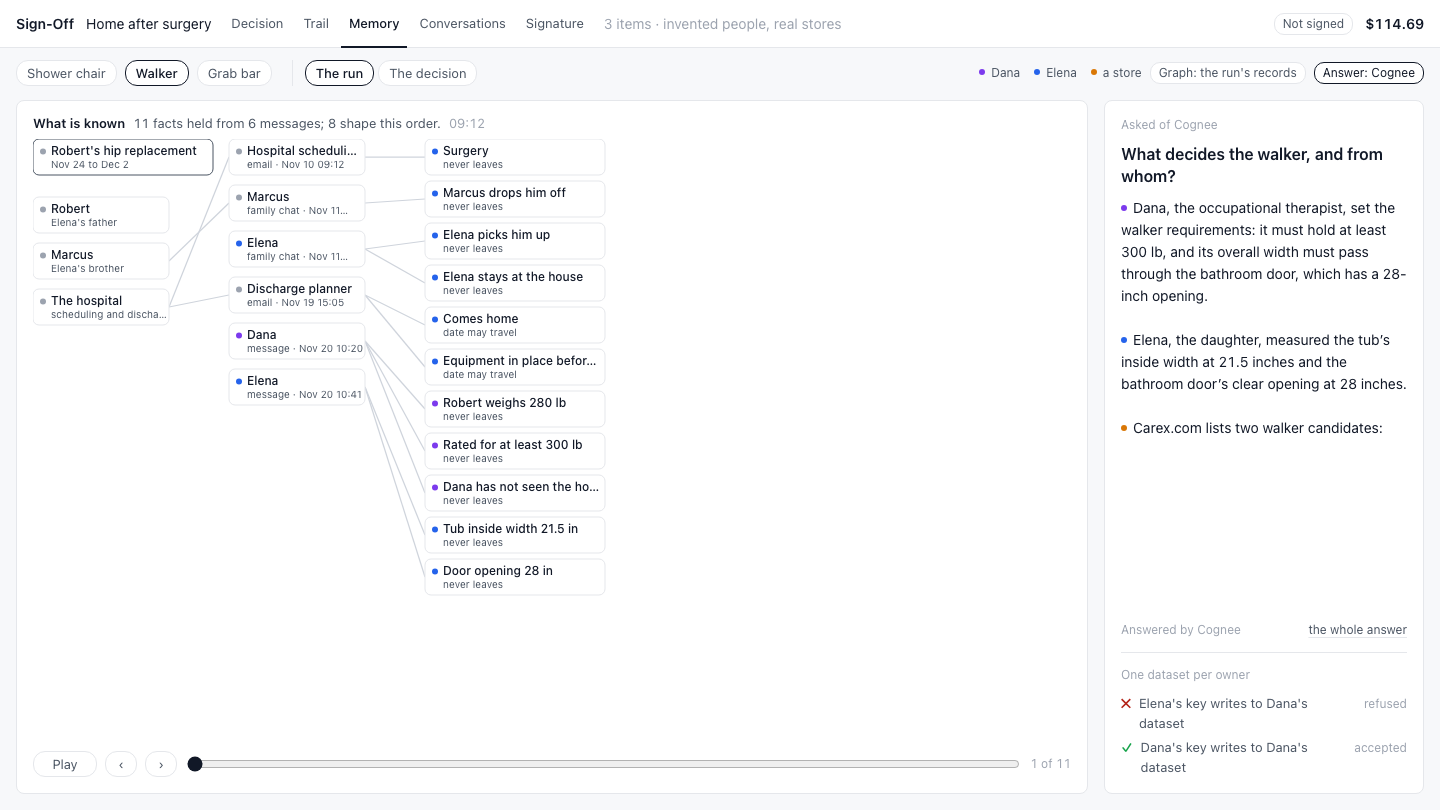
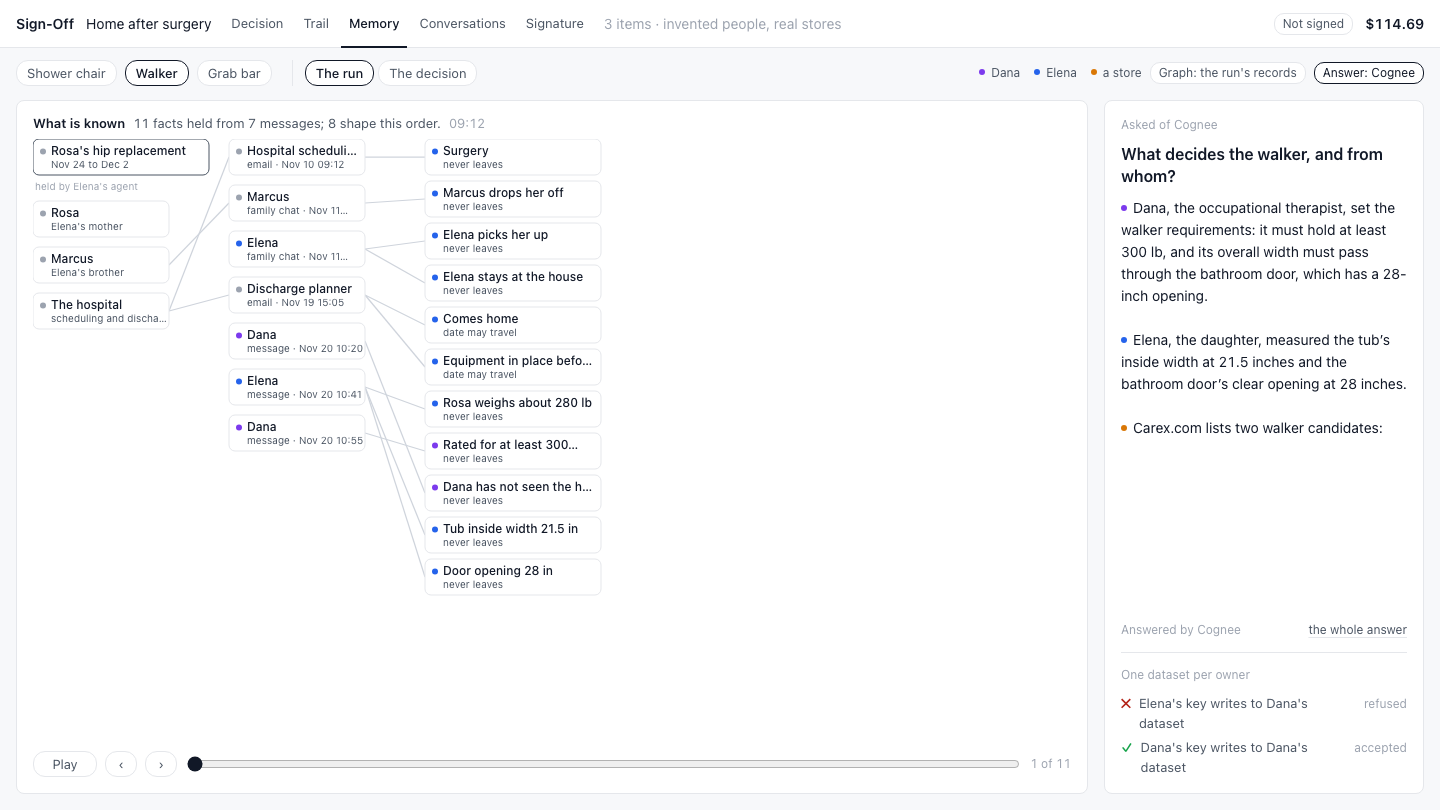
GRAPH: who holds the event; controls drawn before the canvas is measured; one clock per canvas; shots refreshed

diff --git a/web/graph/graph.js b/web/graph/graph.js
@@ -89,13 +89,17 @@ function curve(a, b) {
   return { d: `M${x1} ${y1}C${m} ${y1} ${m} ${y2} ${x2} ${y2}`, lx: m, ly: (y1 + y2) / 2 + 3 };
 }
 
+function controls() {
+  // drawn before the canvas is measured, so the canvas keeps its height
+  if ($("#scrub")) return;
+  $("#ctl").innerHTML = `<button class="chip" data-play>Play</button><button class="chip" data-step="-1" aria-label="Back">‹</button><button class="chip" data-step="1" aria-label="Next">›</button>
+    <input type="range" id="scrub" min="0" max="1" step="1" aria-label="Stage"><span class="cap" id="count">1 of 1</span>`;
+  $("#scrub").addEventListener("input", (e) => { XP.play(false); XP.jump(Number(e.target.value)); });
+}
+
 function renderStage(s, k, n) {
   $("#heads").innerHTML = `<span class="st"><b>${esc(s.title)}</b>${esc(s.caption)}${s.at ? `<i>${esc(clock(s.at))}</i>` : ""}</span>`;
-  if (!$("#scrub")) {
-    $("#ctl").innerHTML = `<button class="chip" data-play></button><button class="chip" data-step="-1" aria-label="Back">‹</button><button class="chip" data-step="1" aria-label="Next">›</button>
-      <input type="range" id="scrub" min="0" max="${n - 1}" step="1" aria-label="Stage"><span class="cap" id="count"></span>`;
-    $("#scrub").addEventListener("input", (e) => { XP.play(false); XP.jump(Number(e.target.value)); });
-  }
+  controls();
   $("#scrub").max = n - 1; $("#scrub").value = k;
   $("#count").textContent = `${k + 1} of ${n}`;
   $("[data-play]").textContent = XP.playing() ? "Pause" : "Play";
@@ -103,6 +107,8 @@ function renderStage(s, k, n) {
 
 function drawExplore() {
   $("#ctl").hidden = false;
+  controls();
+  if (!$("#heads").innerHTML) $("#heads").innerHTML = `<span class="st"><b>&nbsp;</b></span>`;
   if (!xdata?.stages) { $("#stage").innerHTML = ""; $("#heads").innerHTML = ""; return; }
   const key = JSON.stringify([xdata, innerWidth, innerHeight]);
   if (key === xkey) return;

diff --git a/web/graph/explore.js b/web/graph/explore.js
@@ -48,7 +48,8 @@ function plan(k) {
   if (eventPhase) {
     // the event fills the canvas: its people, the messages, the facts quoted from them; the order grows at the right
     put("event", 0, 0);
-    around.forEach((n, i) => put(n.id, 0, CH + px(22) + i * (CH + px(10))));
+    if (nodes.get("event").held_by) texts.push({ x: px(2), y: CH + px(15), cls: "gs", html: esc(nodes.get("event").held_by) });
+    around.forEach((n, i) => put(n.id, 0, CH + px(26) + i * (CH + px(10))));
     notes.forEach((n, i) => put(n.id, XI, i * (CH + px(10))));
     const fy = new Map();
     known.forEach((n, i) => { fy.set(n.id, i * (CH + px(6))); put(n.id, XS, fy.get(n.id), { w: FW, o: k >= iOrder && !n.used ? 0.4 : 1 }); });
@@ -341,6 +342,7 @@ function go(k, instant = false) {
 
 // ---------- the surface the page uses ----------
 export function mount(host, data, hooks, opts = {}) {
+  if (X) { clearInterval(X.timer); cancelAnimationFrame(X.raf); }   // one canvas, one clock
   host.innerHTML = "";
   const svg = el("svg", { class: "xp", width: host.clientWidth, height: host.clientHeight });
   host.appendChild(svg);

diff --git a/signoff/graph/explore.py b/signoff/graph/explore.py
@@ -186,8 +186,12 @@ def explore(records: dict, line_id: str, reviews: dict | None = None, recall: di
         file = context.get("file")
         role = {(sheet.get(r) or {}).get("id"): r for r in ("issuer", "shopper")}
         ev = context["event"]
+        held_by = context.get("held_by") if isinstance(context.get("held_by"), dict) else {}
+        holder = next(((sheet.get(r) or {}).get("name") for r in ("issuer", "shopper") if (sheet.get(r) or {}).get("id") == held_by.get("who")), None) \
+            or next((p.get("name") for p in context["people"] if p.get("id") == held_by.get("who")), None)
         extra["event"] = {"id": "event", "kind": "event", "owner": "system", "label": ev.get("label"),
-                          "sub": "%s to %s" % (_day(ev.get("starts")), _day(ev.get("ends"))), "text": ev.get("label"),
+                          "sub": "%s to %s" % (_day(ev.get("starts")), _day(ev.get("ends"))), "text": held_by.get("note") or ev.get("label"),
+                          "held_by": "held by %s's agent" % holder if holder else None,
                           "invented": context.get("invented"), "source": {"record": "context", "file": file, "pointer": "/event"}}
         event_ids.append("event")
         who = {}

diff --git a/signoff/graph/context.py b/signoff/graph/context.py
@@ -68,4 +68,4 @@ def read(context: dict | None, sheet: dict, file: str = "") -> dict | None:
         facts.append(dict(f, feeds=feeds, index=i))
     return {"file": file, "invented": context.get("invented"), "event": context.get("event"),
             "people": context.get("people") or [], "messages": list(messages.values()), "facts": facts,
-            "dropped": dropped, "classes": context.get("classes") or {}}
+            "dropped": dropped, "classes": context.get("classes") or {}, "held_by": context.get("held_by")}
